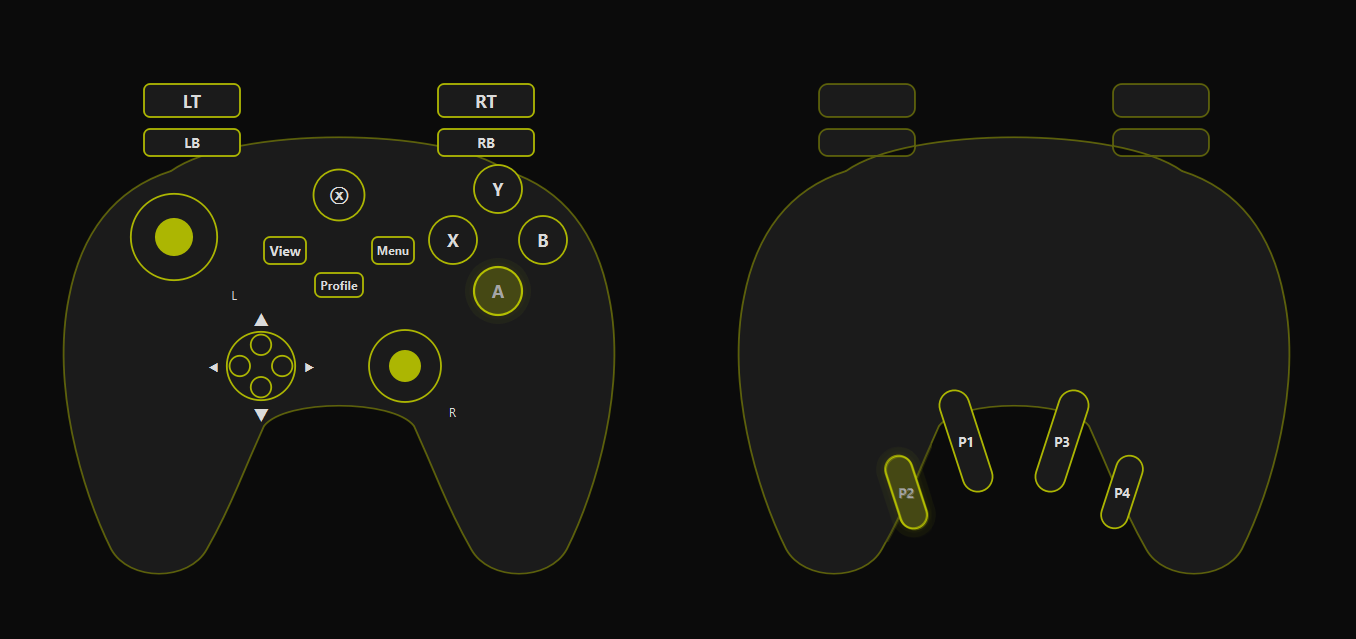
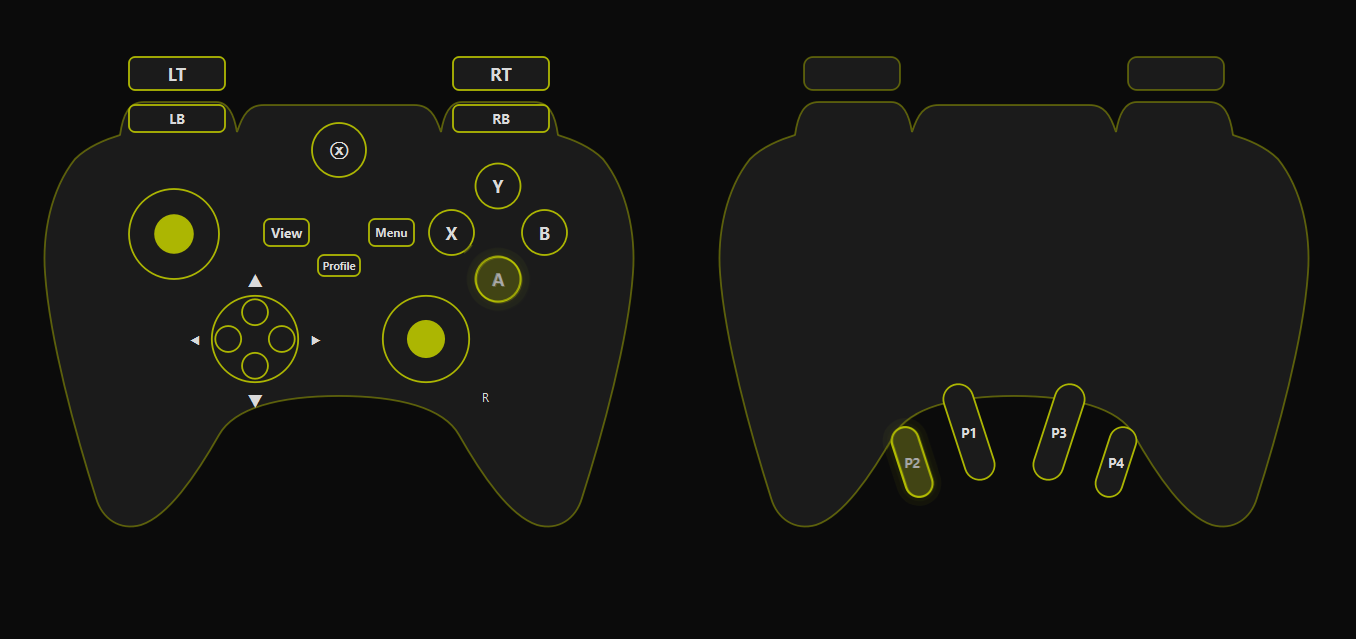
Xbox body line from the Series reference: bumper humps, angled grips

diff --git a/design/XboxLayouts.dc.html b/design/XboxLayouts.dc.html
@@ -14,7 +14,7 @@
 
   </style>
 </helmet>
-<div style="width: 1382px; height: 464px; background: #0c0c0e; position: relative; overflow: hidden;"><svg width="1382" height="464" viewBox="0 0 1382 464" xmlns="http://www.w3.org/2000/svg" style="display: block;"><path d="M 120.0 140.0 C 162.0 110.0 302.0 110.0 344.0 140.0 C 382.0 152.0 404.0 182.0 412.0 224.0 C 424.0 282.0 404.0 352.0 384.0 392.0 C 372.0 414.0 332.0 414.0 320.0 392.0 C 304.0 364.0 294.0 336.0 282.0 310.0 C 268.0 292.0 196.0 292.0 182.0 310.0 C 170.0 336.0 160.0 364.0 144.0 392.0 C 132.0 414.0 92.0 414.0 80.0 392.0 C 60.0 352.0 40.0 282.0 52.0 224.0 C 60.0 182.0 82.0 152.0 120.0 140.0 Z" fill="#1e1e1e" stroke="#c9d400" stroke-opacity="0.47" stroke-width="1.2"></path><circle cx="122.0" cy="184.0" r="28.8" fill="#1e1e1e" stroke="#c9d400" stroke-width="1.2"></circle><circle cx="122.0" cy="184.0" r="12.1" fill="#c9d400"></circle><circle cx="180.0" cy="270.0" r="22.8" fill="#1e1e1e" stroke="#c9d400" stroke-width="1.2"></circle><circle cx="180.0" cy="255.9" r="6.8" fill="#1e1e1e" stroke="#c9d400" stroke-width="1.2"></circle><circle cx="180.0" cy="284.1" r="6.8" fill="#1e1e1e" stroke="#c9d400" stroke-width="1.2"></circle><circle cx="165.9" cy="270.0" r="6.8" fill="#1e1e1e" stroke="#c9d400" stroke-width="1.2"></circle><circle cx="194.1" cy="270.0" r="6.8" fill="#1e1e1e" stroke="#c9d400" stroke-width="1.2"></circle><circle cx="276.0" cy="270.0" r="24.0" fill="#1e1e1e" stroke="#c9d400" stroke-width="1.2"></circle><circle cx="276.0" cy="270.0" r="10.1" fill="#c9d400"></circle><path d="M 102.0 86.0 C 102.0 83.8 103.8 82.0 106.0 82.0 L 162.0 82.0 C 164.2 82.0 166.0 83.8 166.0 86.0 L 166.0 100.0 C 166.0 102.2 164.2 104.0 162.0 104.0 L 106.0 104.0 C 103.8 104.0 102.0 102.2 102.0 100.0 L 102.0 86.0 Z" fill="#1e1e1e" stroke="#c9d400" stroke-width="1.2"></path><text x="134.0" y="97.2" text-anchor="middle" font-family="'Segoe UI', system-ui, -apple-system, sans-serif" font-size="12.0" font-weight="700" fill="#ffffff">LT</text><path d="M 298.0 86.0 C 298.0 83.8 299.8 82.0 302.0 82.0 L 358.0 82.0 C 360.2 82.0 362.0 83.8 362.0 86.0 L 362.0 100.0 C 362.0 102.2 360.2 104.0 358.0 104.0 L 302.0 104.0 C 299.8 104.0 298.0 102.2 298.0 100.0 L 298.0 86.0 Z" fill="#1e1e1e" stroke="#c9d400" stroke-width="1.2"></path><text x="330.0" y="97.2" text-anchor="middle" font-family="'Segoe UI', system-ui, -apple-system, sans-serif" font-size="12.0" font-weight="700" fill="#ffffff">RT</text><path d="M 102.0 116.0 C 102.0 113.8 103.8 112.0 106.0 112.0 L 162.0 112.0 C 164.2 112.0 166.0 113.8 166.0 116.0 L 166.0 126.0 C 166.0 128.2 164.2 130.0 162.0 130.0 L 106.0 130.0 C 103.8 130.0 102.0 128.2 102.0 126.0 L 102.0 116.0 Z" fill="#1e1e1e" stroke="#c9d400" stroke-width="1.2"></path><text x="134.0" y="125.2" text-anchor="middle" font-family="'Segoe UI', system-ui, -apple-system, sans-serif" font-size="12.0" font-weight="700" fill="#ffffff">LB</text><path d="M 298.0 116.0 C 298.0 113.8 299.8 112.0 302.0 112.0 L 358.0 112.0 C 360.2 112.0 362.0 113.8 362.0 116.0 L 362.0 126.0 C 362.0 128.2 360.2 130.0 358.0 130.0 L 302.0 130.0 C 299.8 130.0 298.0 128.2 298.0 126.0 L 298.0 116.0 Z" fill="#1e1e1e" stroke="#c9d400" stroke-width="1.2"></path><text x="330.0" y="125.2" text-anchor="middle" font-family="'Segoe UI', system-ui, -apple-system, sans-serif" font-size="12.0" font-weight="700" fill="#ffffff">RB</text><path d="M 249.0 156.0 C 249.0 165.4 241.4 173.0 232.0 173.0 C 222.6 173.0 215.0 165.4 215.0 156.0 C 215.0 146.6 222.6 139.0 232.0 139.0 C 241.4 139.0 249.0 146.6 249.0 156.0 Z" fill="#1e1e1e" stroke="#c9d400" stroke-width="1.2"></path><text x="232.0" y="160.2" text-anchor="middle" font-family="'Segoe UI', system-ui, -apple-system, sans-serif" font-size="12.0" font-weight="700" fill="#ffffff">ⓧ</text><path d="M 182.0 188.0 C 182.0 185.8 183.8 184.0 186.0 184.0 L 206.0 184.0 C 208.2 184.0 210.0 185.8 210.0 188.0 L 210.0 198.0 C 210.0 200.2 208.2 202.0 206.0 202.0 L 186.0 202.0 C 183.8 202.0 182.0 200.2 182.0 198.0 L 182.0 188.0 Z" fill="#1e1e1e" stroke="#c9d400" stroke-width="1.2"></path><text x="196.0" y="197.2" text-anchor="middle" font-family="'Segoe UI', system-ui, -apple-system, sans-serif" font-size="12.0" font-weight="700" fill="#ffffff">View</text><path d="M 254.0 188.0 C 254.0 185.8 255.8 184.0 258.0 184.0 L 278.0 184.0 C 280.2 184.0 282.0 185.8 282.0 188.0 L 282.0 198.0 C 282.0 200.2 280.2 202.0 278.0 202.0 L 258.0 202.0 C 255.8 202.0 254.0 200.2 254.0 198.0 L 254.0 188.0 Z" fill="#1e1e1e" stroke="#c9d400" stroke-width="1.2"></path><text x="268.0" y="197.2" text-anchor="middle" font-family="'Segoe UI', system-ui, -apple-system, sans-serif" font-size="12.0" font-weight="700" fill="#ffffff">Menu</text><path d="M 216.0 212.0 C 216.0 209.8 217.8 208.0 220.0 208.0 L 244.0 208.0 C 246.2 208.0 248.0 209.8 248.0 212.0 L 248.0 220.0 C 248.0 222.2 246.2 224.0 244.0 224.0 L 220.0 224.0 C 217.8 224.0 216.0 222.2 216.0 220.0 L 216.0 212.0 Z" fill="#1e1e1e" stroke="#c9d400" stroke-width="1.2"></path><text x="232.0" y="219.4" text-anchor="middle" font-family="'Segoe UI', system-ui, -apple-system, sans-serif" font-size="9.6" font-weight="700" fill="#ffffff">Share</text><path d="M 354.0 152.0 C 354.0 160.8 346.8 168.0 338.0 168.0 C 329.2 168.0 322.0 160.8 322.0 152.0 C 322.0 143.2 329.2 136.0 338.0 136.0 C 346.8 136.0 354.0 143.2 354.0 152.0 Z" fill="#1e1e1e" stroke="#c9d400" stroke-width="1.2"></path><text x="338.0" y="156.2" text-anchor="middle" font-family="'Segoe UI', system-ui, -apple-system, sans-serif" font-size="12.0" font-weight="700" fill="#ffffff">Y</text><path d="M 324.0 186.0 C 324.0 194.8 316.8 202.0 308.0 202.0 C 299.2 202.0 292.0 194.8 292.0 186.0 C 292.0 177.2 299.2 170.0 308.0 170.0 C 316.8 170.0 324.0 177.2 324.0 186.0 Z" fill="#1e1e1e" stroke="#c9d400" stroke-width="1.2"></path><text x="308.0" y="190.2" text-anchor="middle" font-family="'Segoe UI', system-ui, -apple-system, sans-serif" font-size="12.0" font-weight="700" fill="#ffffff">X</text><path d="M 384.0 186.0 C 384.0 194.8 376.8 202.0 368.0 202.0 C 359.2 202.0 352.0 194.8 352.0 186.0 C 352.0 177.2 359.2 170.0 368.0 170.0 C 376.8 170.0 384.0 177.2 384.0 186.0 Z" fill="#1e1e1e" stroke="#c9d400" stroke-width="1.2"></path><text x="368.0" y="190.2" text-anchor="middle" font-family="'Segoe UI', system-ui, -apple-system, sans-serif" font-size="12.0" font-weight="700" fill="#ffffff">B</text><path d="M 354.0 220.0 C 354.0 228.8 346.8 236.0 338.0 236.0 C 329.2 236.0 322.0 228.8 322.0 220.0 C 322.0 211.2 329.2 204.0 338.0 204.0 C 346.8 204.0 354.0 211.2 354.0 220.0 Z" fill="none" stroke="#c9d400" stroke-opacity="0.18" stroke-width="12"></path><path d="M 354.0 220.0 C 354.0 228.8 346.8 236.0 338.0 236.0 C 329.2 236.0 322.0 228.8 322.0 220.0 C 322.0 211.2 329.2 204.0 338.0 204.0 C 346.8 204.0 354.0 211.2 354.0 220.0 Z" fill="none" stroke="#c9d400" stroke-opacity="0.09" stroke-width="6"></path><path d="M 354.0 220.0 C 354.0 228.8 346.8 236.0 338.0 236.0 C 329.2 236.0 322.0 228.8 322.0 220.0 C 322.0 211.2 329.2 204.0 338.0 204.0 C 346.8 204.0 354.0 211.2 354.0 220.0 Z" fill="#c9d400" stroke="#c9d400" stroke-width="2.2"></path><text x="338.0" y="224.2" text-anchor="middle" font-family="'Segoe UI', system-ui, -apple-system, sans-serif" font-size="12.0" font-weight="700" fill="#000000">A</text><text x="233.0" y="31.7" text-anchor="middle" font-family="'Segoe UI', system-ui, -apple-system, sans-serif" font-size="10.7" font-weight="400" fill="#a1a1a6">Xbox Wireless</text><path d="M 586.0 140.0 C 628.0 110.0 768.0 110.0 810.0 140.0 C 848.0 152.0 870.0 182.0 878.0 224.0 C 890.0 282.0 870.0 352.0 850.0 392.0 C 838.0 414.0 798.0 414.0 786.0 392.0 C 770.0 364.0 760.0 336.0 748.0 310.0 C 734.0 292.0 662.0 292.0 648.0 310.0 C 636.0 336.0 626.0 364.0 610.0 392.0 C 598.0 414.0 558.0 414.0 546.0 392.0 C 526.0 352.0 506.0 282.0 518.0 224.0 C 526.0 182.0 548.0 152.0 586.0 140.0 Z" fill="#1e1e1e" stroke="#c9d400" stroke-opacity="0.47" stroke-width="1.2"></path><path d="M 1036.0 140.0 C 1078.0 110.0 1218.0 110.0 1260.0 140.0 C 1298.0 152.0 1320.0 182.0 1328.0 224.0 C 1340.0 282.0 1320.0 352.0 1300.0 392.0 C 1288.0 414.0 1248.0 414.0 1236.0 392.0 C 1220.0 364.0 1210.0 336.0 1198.0 310.0 C 1184.0 292.0 1112.0 292.0 1098.0 310.0 C 1086.0 336.0 1076.0 364.0 1060.0 392.0 C 1048.0 414.0 1008.0 414.0 996.0 392.0 C 976.0 352.0 956.0 282.0 968.0 224.0 C 976.0 182.0 998.0 152.0 1036.0 140.0 Z M 1018.0 88.0 C 1018.0 84.7 1020.7 82.0 1024.0 82.0 L 1076.0 82.0 C 1079.3 82.0 1082.0 84.7 1082.0 88.0 L 1082.0 98.0 C 1082.0 101.3 1079.3 104.0 1076.0 104.0 L 1024.0 104.0 C 1020.7 104.0 1018.0 101.3 1018.0 98.0 L 1018.0 88.0 Z M 1214.0 88.0 C 1214.0 84.7 1216.7 82.0 1220.0 82.0 L 1272.0 82.0 C 1275.3 82.0 1278.0 84.7 1278.0 88.0 L 1278.0 98.0 C 1278.0 101.3 1275.3 104.0 1272.0 104.0 L 1220.0 104.0 C 1216.7 104.0 1214.0 101.3 1214.0 98.0 L 1214.0 88.0 Z M 1018.0 118.0 C 1018.0 114.7 1020.7 112.0 1024.0 112.0 L 1076.0 112.0 C 1079.3 112.0 1082.0 114.7 1082.0 118.0 L 1082.0 124.0 C 1082.0 127.3 1079.3 130.0 1076.0 130.0 L 1024.0 130.0 C 1020.7 130.0 1018.0 127.3 1018.0 124.0 L 1018.0 118.0 Z M 1214.0 118.0 C 1214.0 114.7 1216.7 112.0 1220.0 112.0 L 1272.0 112.0 C 1275.3 112.0 1278.0 114.7 1278.0 118.0 L 1278.0 124.0 C 1278.0 127.3 1275.3 130.0 1272.0 130.0 L 1220.0 130.0 C 1216.7 130.0 1214.0 127.3 1214.0 124.0 L 1214.0 118.0 Z" fill="#1e1e1e" stroke="#c9d400" stroke-opacity="0.47" stroke-width="1.2"></path><circle cx="588.0" cy="184.0" r="28.8" fill="#1e1e1e" stroke="#c9d400" stroke-width="1.2"></circle><circle cx="588.0" cy="184.0" r="12.1" fill="#c9d400"></circle><circle cx="646.0" cy="270.0" r="22.8" fill="#1e1e1e" stroke="#c9d400" stroke-width="1.2"></circle><circle cx="646.0" cy="255.9" r="6.8" fill="#1e1e1e" stroke="#c9d400" stroke-width="1.2"></circle><circle cx="646.0" cy="284.1" r="6.8" fill="#1e1e1e" stroke="#c9d400" stroke-width="1.2"></circle><circle cx="631.9" cy="270.0" r="6.8" fill="#1e1e1e" stroke="#c9d400" stroke-width="1.2"></circle><circle cx="660.1" cy="270.0" r="6.8" fill="#1e1e1e" stroke="#c9d400" stroke-width="1.2"></circle><circle cx="742.0" cy="270.0" r="24.0" fill="#1e1e1e" stroke="#c9d400" stroke-width="1.2"></circle><circle cx="742.0" cy="270.0" r="10.1" fill="#c9d400"></circle><path d="M 568.0 86.0 C 568.0 83.8 569.8 82.0 572.0 82.0 L 628.0 82.0 C 630.2 82.0 632.0 83.8 632.0 86.0 L 632.0 100.0 C 632.0 102.2 630.2 104.0 628.0 104.0 L 572.0 104.0 C 569.8 104.0 568.0 102.2 568.0 100.0 L 568.0 86.0 Z" fill="#1e1e1e" stroke="#c9d400" stroke-width="1.2"></path><text x="600.0" y="97.2" text-anchor="middle" font-family="'Segoe UI', system-ui, -apple-system, sans-serif" font-size="12.0" font-weight="700" fill="#ffffff">LT</text><path d="M 764.0 86.0 C 764.0 83.8 765.8 82.0 768.0 82.0 L 824.0 82.0 C 826.2 82.0 828.0 83.8 828.0 86.0 L 828.0 100.0 C 828.0 102.2 826.2 104.0 824.0 104.0 L 768.0 104.0 C 765.8 104.0 764.0 102.2 764.0 100.0 L 764.0 86.0 Z" fill="#1e1e1e" stroke="#c9d400" stroke-width="1.2"></path><text x="796.0" y="97.2" text-anchor="middle" font-family="'Segoe UI', system-ui, -apple-system, sans-serif" font-size="12.0" font-weight="700" fill="#ffffff">RT</text><path d="M 568.0 116.0 C 568.0 113.8 569.8 112.0 572.0 112.0 L 628.0 112.0 C 630.2 112.0 632.0 113.8 632.0 116.0 L 632.0 126.0 C 632.0 128.2 630.2 130.0 628.0 130.0 L 572.0 130.0 C 569.8 130.0 568.0 128.2 568.0 126.0 L 568.0 116.0 Z" fill="#1e1e1e" stroke="#c9d400" stroke-width="1.2"></path><text x="600.0" y="125.2" text-anchor="middle" font-family="'Segoe UI', system-ui, -apple-system, sans-serif" font-size="12.0" font-weight="700" fill="#ffffff">LB</text><path d="M 764.0 116.0 C 764.0 113.8 765.8 112.0 768.0 112.0 L 824.0 112.0 C 826.2 112.0 828.0 113.8 828.0 116.0 L 828.0 126.0 C 828.0 128.2 826.2 130.0 824.0 130.0 L 768.0 130.0 C 765.8 130.0 764.0 128.2 764.0 126.0 L 764.0 116.0 Z" fill="#1e1e1e" stroke="#c9d400" stroke-width="1.2"></path><text x="796.0" y="125.2" text-anchor="middle" font-family="'Segoe UI', system-ui, -apple-system, sans-serif" font-size="12.0" font-weight="700" fill="#ffffff">RB</text><path d="M 715.0 156.0 C 715.0 165.4 707.4 173.0 698.0 173.0 C 688.6 173.0 681.0 165.4 681.0 156.0 C 681.0 146.6 688.6 139.0 698.0 139.0 C 707.4 139.0 715.0 146.6 715.0 156.0 Z" fill="#1e1e1e" stroke="#c9d400" stroke-width="1.2"></path><text x="698.0" y="160.2" text-anchor="middle" font-family="'Segoe UI', system-ui, -apple-system, sans-serif" font-size="12.0" font-weight="700" fill="#ffffff">ⓧ</text><path d="M 648.0 188.0 C 648.0 185.8 649.8 184.0 652.0 184.0 L 672.0 184.0 C 674.2 184.0 676.0 185.8 676.0 188.0 L 676.0 198.0 C 676.0 200.2 674.2 202.0 672.0 202.0 L 652.0 202.0 C 649.8 202.0 648.0 200.2 648.0 198.0 L 648.0 188.0 Z" fill="#1e1e1e" stroke="#c9d400" stroke-width="1.2"></path><text x="662.0" y="197.2" text-anchor="middle" font-family="'Segoe UI', system-ui, -apple-system, sans-serif" font-size="12.0" font-weight="700" fill="#ffffff">View</text><path d="M 720.0 188.0 C 720.0 185.8 721.8 184.0 724.0 184.0 L 744.0 184.0 C 746.2 184.0 748.0 185.8 748.0 188.0 L 748.0 198.0 C 748.0 200.2 746.2 202.0 744.0 202.0 L 724.0 202.0 C 721.8 202.0 720.0 200.2 720.0 198.0 L 720.0 188.0 Z" fill="#1e1e1e" stroke="#c9d400" stroke-width="1.2"></path><text x="734.0" y="197.2" text-anchor="middle" font-family="'Segoe UI', system-ui, -apple-system, sans-serif" font-size="12.0" font-weight="700" fill="#ffffff">Menu</text><path d="M 682.0 212.0 C 682.0 209.8 683.8 208.0 686.0 208.0 L 710.0 208.0 C 712.2 208.0 714.0 209.8 714.0 212.0 L 714.0 220.0 C 714.0 222.2 712.2 224.0 710.0 224.0 L 686.0 224.0 C 683.8 224.0 682.0 222.2 682.0 220.0 L 682.0 212.0 Z" fill="#1e1e1e" stroke="#c9d400" stroke-width="1.2"></path><text x="698.0" y="219.4" text-anchor="middle" font-family="'Segoe UI', system-ui, -apple-system, sans-serif" font-size="9.6" font-weight="700" fill="#ffffff">Profile</text><path d="M 820.0 152.0 C 820.0 160.8 812.8 168.0 804.0 168.0 C 795.2 168.0 788.0 160.8 788.0 152.0 C 788.0 143.2 795.2 136.0 804.0 136.0 C 812.8 136.0 820.0 143.2 820.0 152.0 Z" fill="#1e1e1e" stroke="#c9d400" stroke-width="1.2"></path><text x="804.0" y="156.2" text-anchor="middle" font-family="'Segoe UI', system-ui, -apple-system, sans-serif" font-size="12.0" font-weight="700" fill="#ffffff">Y</text><path d="M 790.0 186.0 C 790.0 194.8 782.8 202.0 774.0 202.0 C 765.2 202.0 758.0 194.8 758.0 186.0 C 758.0 177.2 765.2 170.0 774.0 170.0 C 782.8 170.0 790.0 177.2 790.0 186.0 Z" fill="#1e1e1e" stroke="#c9d400" stroke-width="1.2"></path><text x="774.0" y="190.2" text-anchor="middle" font-family="'Segoe UI', system-ui, -apple-system, sans-serif" font-size="12.0" font-weight="700" fill="#ffffff">X</text><path d="M 850.0 186.0 C 850.0 194.8 842.8 202.0 834.0 202.0 C 825.2 202.0 818.0 194.8 818.0 186.0 C 818.0 177.2 825.2 170.0 834.0 170.0 C 842.8 170.0 850.0 177.2 850.0 186.0 Z" fill="#1e1e1e" stroke="#c9d400" stroke-width="1.2"></path><text x="834.0" y="190.2" text-anchor="middle" font-family="'Segoe UI', system-ui, -apple-system, sans-serif" font-size="12.0" font-weight="700" fill="#ffffff">B</text><path d="M 820.0 220.0 C 820.0 228.8 812.8 236.0 804.0 236.0 C 795.2 236.0 788.0 228.8 788.0 220.0 C 788.0 211.2 795.2 204.0 804.0 204.0 C 812.8 204.0 820.0 211.2 820.0 220.0 Z" fill="none" stroke="#c9d400" stroke-opacity="0.18" stroke-width="12"></path><path d="M 820.0 220.0 C 820.0 228.8 812.8 236.0 804.0 236.0 C 795.2 236.0 788.0 228.8 788.0 220.0 C 788.0 211.2 795.2 204.0 804.0 204.0 C 812.8 204.0 820.0 211.2 820.0 220.0 Z" fill="none" stroke="#c9d400" stroke-opacity="0.09" stroke-width="6"></path><path d="M 820.0 220.0 C 820.0 228.8 812.8 236.0 804.0 236.0 C 795.2 236.0 788.0 228.8 788.0 220.0 C 788.0 211.2 795.2 204.0 804.0 204.0 C 812.8 204.0 820.0 211.2 820.0 220.0 Z" fill="#c9d400" stroke="#c9d400" stroke-width="2.2"></path><text x="804.0" y="224.2" text-anchor="middle" font-family="'Segoe UI', system-ui, -apple-system, sans-serif" font-size="12.0" font-weight="700" fill="#000000">A</text><path d="M 1098.8 299.3 C 1097.1 294.1 1099.9 288.4 1105.2 286.7 C 1110.4 285.0 1116.1 287.9 1117.8 293.1 L 1133.2 340.7 C 1134.9 345.9 1132.1 351.6 1126.8 353.3 C 1121.6 355.0 1115.9 352.1 1114.2 346.9 L 1098.8 299.3 Z" fill="#1e1e1e" stroke="#c9d400" stroke-width="1.2"></path><text x="1116.0" y="324.2" text-anchor="middle" font-family="'Segoe UI', system-ui, -apple-system, sans-serif" font-size="12.0" font-weight="700" fill="#ffffff">P1</text><path d="M 1062.5 341.6 C 1061.0 336.8 1063.5 331.8 1068.3 330.2 C 1073.0 328.7 1078.1 331.3 1079.6 336.0 L 1089.5 366.4 C 1091.0 371.2 1088.5 376.2 1083.7 377.8 C 1079.0 379.3 1073.9 376.7 1072.4 372.0 L 1062.5 341.6 Z" fill="none" stroke="#c9d400" stroke-opacity="0.18" stroke-width="12"></path><path d="M 1062.5 341.6 C 1061.0 336.8 1063.5 331.8 1068.3 330.2 C 1073.0 328.7 1078.1 331.3 1079.6 336.0 L 1089.5 366.4 C 1091.0 371.2 1088.5 376.2 1083.7 377.8 C 1079.0 379.3 1073.9 376.7 1072.4 372.0 L 1062.5 341.6 Z" fill="none" stroke="#c9d400" stroke-opacity="0.09" stroke-width="6"></path><path d="M 1062.5 341.6 C 1061.0 336.8 1063.5 331.8 1068.3 330.2 C 1073.0 328.7 1078.1 331.3 1079.6 336.0 L 1089.5 366.4 C 1091.0 371.2 1088.5 376.2 1083.7 377.8 C 1079.0 379.3 1073.9 376.7 1072.4 372.0 L 1062.5 341.6 Z" fill="#c9d400" stroke="#c9d400" stroke-width="2.2"></path><text x="1076.0" y="358.2" text-anchor="middle" font-family="'Segoe UI', system-ui, -apple-system, sans-serif" font-size="12.0" font-weight="700" fill="#000000">P2</text><path d="M 1178.2 293.1 C 1179.9 287.9 1185.6 285.0 1190.8 286.7 C 1196.1 288.4 1198.9 294.1 1197.2 299.3 L 1181.8 346.9 C 1180.1 352.1 1174.4 355.0 1169.2 353.3 C 1163.9 351.6 1161.1 345.9 1162.8 340.7 L 1178.2 293.1 Z" fill="#1e1e1e" stroke="#c9d400" stroke-width="1.2"></path><text x="1180.0" y="324.2" text-anchor="middle" font-family="'Segoe UI', system-ui, -apple-system, sans-serif" font-size="12.0" font-weight="700" fill="#ffffff">P3</text><path d="M 1216.4 336.0 C 1217.9 331.3 1223.0 328.7 1227.7 330.2 C 1232.5 331.8 1235.0 336.8 1233.5 341.6 L 1223.6 372.0 C 1222.1 376.7 1217.0 379.3 1212.3 377.8 C 1207.5 376.2 1205.0 371.2 1206.5 366.4 L 1216.4 336.0 Z" fill="#1e1e1e" stroke="#c9d400" stroke-width="1.2"></path><text x="1220.0" y="358.2" text-anchor="middle" font-family="'Segoe UI', system-ui, -apple-system, sans-serif" font-size="12.0" font-weight="700" fill="#ffffff">P4</text><text x="924.0" y="31.7" text-anchor="middle" font-family="'Segoe UI', system-ui, -apple-system, sans-serif" font-size="10.7" font-weight="400" fill="#a1a1a6">Xbox Elite Series 2</text></svg></div>
+<div style="width: 1382px; height: 464px; background: #0c0c0e; position: relative; overflow: hidden;"><svg width="1382" height="464" viewBox="0 0 1382 464" xmlns="http://www.w3.org/2000/svg" style="display: block;"><path d="M 56.0 132.0 C 64.0 124.0 76.0 119.0 86.0 116.0 C 88.0 102.0 92.0 94.0 102.0 94.0 L 150.0 94.0 C 158.0 94.0 162.0 102.0 164.0 114.0 C 168.0 102.0 172.0 96.0 182.0 96.0 L 282.0 96.0 C 292.0 96.0 296.0 102.0 300.0 114.0 C 302.0 102.0 306.0 94.0 314.0 94.0 L 362.0 94.0 C 372.0 94.0 376.0 102.0 378.0 116.0 C 388.0 119.0 400.0 124.0 408.0 132.0 C 424.0 152.0 430.0 182.0 428.0 208.0 C 425.0 252.0 408.0 314.0 394.0 358.0 C 390.0 372.0 378.0 380.0 364.0 376.0 C 346.0 370.0 328.0 344.0 312.0 316.0 C 302.0 298.0 272.0 290.0 232.0 290.0 C 192.0 290.0 162.0 298.0 152.0 316.0 C 136.0 344.0 118.0 370.0 100.0 376.0 C 86.0 380.0 74.0 372.0 70.0 358.0 C 56.0 314.0 39.0 252.0 36.0 208.0 C 34.0 182.0 40.0 152.0 56.0 132.0 Z" fill="#1e1e1e" stroke="#c9d400" stroke-opacity="0.47" stroke-width="1.2"></path><circle cx="122.0" cy="182.0" r="30.0" fill="#1e1e1e" stroke="#c9d400" stroke-width="1.2"></circle><circle cx="122.0" cy="182.0" r="12.6" fill="#c9d400"></circle><circle cx="176.0" cy="252.0" r="28.8" fill="#1e1e1e" stroke="#c9d400" stroke-width="1.2"></circle><circle cx="176.0" cy="234.1" r="8.6" fill="#1e1e1e" stroke="#c9d400" stroke-width="1.2"></circle><circle cx="176.0" cy="269.9" r="8.6" fill="#1e1e1e" stroke="#c9d400" stroke-width="1.2"></circle><circle cx="158.1" cy="252.0" r="8.6" fill="#1e1e1e" stroke="#c9d400" stroke-width="1.2"></circle><circle cx="193.9" cy="252.0" r="8.6" fill="#1e1e1e" stroke="#c9d400" stroke-width="1.2"></circle><circle cx="290.0" cy="252.0" r="28.8" fill="#1e1e1e" stroke="#c9d400" stroke-width="1.2"></circle><circle cx="290.0" cy="252.0" r="12.1" fill="#c9d400"></circle><path d="M 92.0 68.0 C 92.0 65.8 93.8 64.0 96.0 64.0 L 152.0 64.0 C 154.2 64.0 156.0 65.8 156.0 68.0 L 156.0 82.0 C 156.0 84.2 154.2 86.0 152.0 86.0 L 96.0 86.0 C 93.8 86.0 92.0 84.2 92.0 82.0 L 92.0 68.0 Z" fill="#1e1e1e" stroke="#c9d400" stroke-width="1.2"></path><text x="124.0" y="79.2" text-anchor="middle" font-family="'Segoe UI', system-ui, -apple-system, sans-serif" font-size="12.0" font-weight="700" fill="#ffffff">LT</text><path d="M 308.0 68.0 C 308.0 65.8 309.8 64.0 312.0 64.0 L 368.0 64.0 C 370.2 64.0 372.0 65.8 372.0 68.0 L 372.0 82.0 C 372.0 84.2 370.2 86.0 368.0 86.0 L 312.0 86.0 C 309.8 86.0 308.0 84.2 308.0 82.0 L 308.0 68.0 Z" fill="#1e1e1e" stroke="#c9d400" stroke-width="1.2"></path><text x="340.0" y="79.2" text-anchor="middle" font-family="'Segoe UI', system-ui, -apple-system, sans-serif" font-size="12.0" font-weight="700" fill="#ffffff">RT</text><path d="M 92.0 100.0 C 92.0 97.8 93.8 96.0 96.0 96.0 L 152.0 96.0 C 154.2 96.0 156.0 97.8 156.0 100.0 L 156.0 110.0 C 156.0 112.2 154.2 114.0 152.0 114.0 L 96.0 114.0 C 93.8 114.0 92.0 112.2 92.0 110.0 L 92.0 100.0 Z" fill="#1e1e1e" stroke="#c9d400" stroke-width="1.2"></path><text x="124.0" y="109.2" text-anchor="middle" font-family="'Segoe UI', system-ui, -apple-system, sans-serif" font-size="12.0" font-weight="700" fill="#ffffff">LB</text><path d="M 308.0 100.0 C 308.0 97.8 309.8 96.0 312.0 96.0 L 368.0 96.0 C 370.2 96.0 372.0 97.8 372.0 100.0 L 372.0 110.0 C 372.0 112.2 370.2 114.0 368.0 114.0 L 312.0 114.0 C 309.8 114.0 308.0 112.2 308.0 110.0 L 308.0 100.0 Z" fill="#1e1e1e" stroke="#c9d400" stroke-width="1.2"></path><text x="340.0" y="109.2" text-anchor="middle" font-family="'Segoe UI', system-ui, -apple-system, sans-serif" font-size="12.0" font-weight="700" fill="#ffffff">RB</text><path d="M 250.0 126.0 C 250.0 135.9 241.9 144.0 232.0 144.0 C 222.1 144.0 214.0 135.9 214.0 126.0 C 214.0 116.1 222.1 108.0 232.0 108.0 C 241.9 108.0 250.0 116.1 250.0 126.0 Z" fill="#1e1e1e" stroke="#c9d400" stroke-width="1.2"></path><text x="232.0" y="130.2" text-anchor="middle" font-family="'Segoe UI', system-ui, -apple-system, sans-serif" font-size="12.0" font-weight="700" fill="#ffffff">ⓧ</text><path d="M 182.0 176.0 C 182.0 173.8 183.8 172.0 186.0 172.0 L 208.0 172.0 C 210.2 172.0 212.0 173.8 212.0 176.0 L 212.0 186.0 C 212.0 188.2 210.2 190.0 208.0 190.0 L 186.0 190.0 C 183.8 190.0 182.0 188.2 182.0 186.0 L 182.0 176.0 Z" fill="#1e1e1e" stroke="#c9d400" stroke-width="1.2"></path><text x="197.0" y="185.2" text-anchor="middle" font-family="'Segoe UI', system-ui, -apple-system, sans-serif" font-size="12.0" font-weight="700" fill="#ffffff">View</text><path d="M 252.0 176.0 C 252.0 173.8 253.8 172.0 256.0 172.0 L 278.0 172.0 C 280.2 172.0 282.0 173.8 282.0 176.0 L 282.0 186.0 C 282.0 188.2 280.2 190.0 278.0 190.0 L 256.0 190.0 C 253.8 190.0 252.0 188.2 252.0 186.0 L 252.0 176.0 Z" fill="#1e1e1e" stroke="#c9d400" stroke-width="1.2"></path><text x="267.0" y="185.2" text-anchor="middle" font-family="'Segoe UI', system-ui, -apple-system, sans-serif" font-size="12.0" font-weight="700" fill="#ffffff">Menu</text><path d="M 218.0 200.0 C 218.0 197.8 219.8 196.0 222.0 196.0 L 242.0 196.0 C 244.2 196.0 246.0 197.8 246.0 200.0 L 246.0 206.0 C 246.0 208.2 244.2 210.0 242.0 210.0 L 222.0 210.0 C 219.8 210.0 218.0 208.2 218.0 206.0 L 218.0 200.0 Z" fill="#1e1e1e" stroke="#c9d400" stroke-width="1.2"></path><text x="232.0" y="206.4" text-anchor="middle" font-family="'Segoe UI', system-ui, -apple-system, sans-serif" font-size="9.6" font-weight="700" fill="#ffffff">Share</text><path d="M 353.0 150.0 C 353.0 158.3 346.3 165.0 338.0 165.0 C 329.7 165.0 323.0 158.3 323.0 150.0 C 323.0 141.7 329.7 135.0 338.0 135.0 C 346.3 135.0 353.0 141.7 353.0 150.0 Z" fill="#1e1e1e" stroke="#c9d400" stroke-width="1.2"></path><text x="338.0" y="154.2" text-anchor="middle" font-family="'Segoe UI', system-ui, -apple-system, sans-serif" font-size="12.0" font-weight="700" fill="#ffffff">Y</text><path d="M 322.0 181.0 C 322.0 189.3 315.3 196.0 307.0 196.0 C 298.7 196.0 292.0 189.3 292.0 181.0 C 292.0 172.7 298.7 166.0 307.0 166.0 C 315.3 166.0 322.0 172.7 322.0 181.0 Z" fill="#1e1e1e" stroke="#c9d400" stroke-width="1.2"></path><text x="307.0" y="185.2" text-anchor="middle" font-family="'Segoe UI', system-ui, -apple-system, sans-serif" font-size="12.0" font-weight="700" fill="#ffffff">X</text><path d="M 384.0 181.0 C 384.0 189.3 377.3 196.0 369.0 196.0 C 360.7 196.0 354.0 189.3 354.0 181.0 C 354.0 172.7 360.7 166.0 369.0 166.0 C 377.3 166.0 384.0 172.7 384.0 181.0 Z" fill="#1e1e1e" stroke="#c9d400" stroke-width="1.2"></path><text x="369.0" y="185.2" text-anchor="middle" font-family="'Segoe UI', system-ui, -apple-system, sans-serif" font-size="12.0" font-weight="700" fill="#ffffff">B</text><path d="M 353.0 212.0 C 353.0 220.3 346.3 227.0 338.0 227.0 C 329.7 227.0 323.0 220.3 323.0 212.0 C 323.0 203.7 329.7 197.0 338.0 197.0 C 346.3 197.0 353.0 203.7 353.0 212.0 Z" fill="none" stroke="#c9d400" stroke-opacity="0.18" stroke-width="12"></path><path d="M 353.0 212.0 C 353.0 220.3 346.3 227.0 338.0 227.0 C 329.7 227.0 323.0 220.3 323.0 212.0 C 323.0 203.7 329.7 197.0 338.0 197.0 C 346.3 197.0 353.0 203.7 353.0 212.0 Z" fill="none" stroke="#c9d400" stroke-opacity="0.09" stroke-width="6"></path><path d="M 353.0 212.0 C 353.0 220.3 346.3 227.0 338.0 227.0 C 329.7 227.0 323.0 220.3 323.0 212.0 C 323.0 203.7 329.7 197.0 338.0 197.0 C 346.3 197.0 353.0 203.7 353.0 212.0 Z" fill="#c9d400" stroke="#c9d400" stroke-width="2.2"></path><text x="338.0" y="216.2" text-anchor="middle" font-family="'Segoe UI', system-ui, -apple-system, sans-serif" font-size="12.0" font-weight="700" fill="#000000">A</text><text x="233.0" y="31.7" text-anchor="middle" font-family="'Segoe UI', system-ui, -apple-system, sans-serif" font-size="10.7" font-weight="400" fill="#a1a1a6">Xbox Wireless</text><path d="M 522.0 132.0 C 530.0 124.0 542.0 119.0 552.0 116.0 C 554.0 102.0 558.0 94.0 568.0 94.0 L 616.0 94.0 C 624.0 94.0 628.0 102.0 630.0 114.0 C 634.0 102.0 638.0 96.0 648.0 96.0 L 748.0 96.0 C 758.0 96.0 762.0 102.0 766.0 114.0 C 768.0 102.0 772.0 94.0 780.0 94.0 L 828.0 94.0 C 838.0 94.0 842.0 102.0 844.0 116.0 C 854.0 119.0 866.0 124.0 874.0 132.0 C 890.0 152.0 896.0 182.0 894.0 208.0 C 891.0 252.0 874.0 314.0 860.0 358.0 C 856.0 372.0 844.0 380.0 830.0 376.0 C 812.0 370.0 794.0 344.0 778.0 316.0 C 768.0 298.0 738.0 290.0 698.0 290.0 C 658.0 290.0 628.0 298.0 618.0 316.0 C 602.0 344.0 584.0 370.0 566.0 376.0 C 552.0 380.0 540.0 372.0 536.0 358.0 C 522.0 314.0 505.0 252.0 502.0 208.0 C 500.0 182.0 506.0 152.0 522.0 132.0 Z" fill="#1e1e1e" stroke="#c9d400" stroke-opacity="0.47" stroke-width="1.2"></path><path d="M 972.0 132.0 C 980.0 124.0 992.0 119.0 1002.0 116.0 C 1004.0 102.0 1008.0 94.0 1018.0 94.0 L 1066.0 94.0 C 1074.0 94.0 1078.0 102.0 1080.0 114.0 C 1084.0 102.0 1088.0 96.0 1098.0 96.0 L 1198.0 96.0 C 1208.0 96.0 1212.0 102.0 1216.0 114.0 C 1218.0 102.0 1222.0 94.0 1230.0 94.0 L 1278.0 94.0 C 1288.0 94.0 1292.0 102.0 1294.0 116.0 C 1304.0 119.0 1316.0 124.0 1324.0 132.0 C 1340.0 152.0 1346.0 182.0 1344.0 208.0 C 1341.0 252.0 1324.0 314.0 1310.0 358.0 C 1306.0 372.0 1294.0 380.0 1280.0 376.0 C 1262.0 370.0 1244.0 344.0 1228.0 316.0 C 1218.0 298.0 1188.0 290.0 1148.0 290.0 C 1108.0 290.0 1078.0 298.0 1068.0 316.0 C 1052.0 344.0 1034.0 370.0 1016.0 376.0 C 1002.0 380.0 990.0 372.0 986.0 358.0 C 972.0 314.0 955.0 252.0 952.0 208.0 C 950.0 182.0 956.0 152.0 972.0 132.0 Z M 1008.0 70.0 C 1008.0 66.7 1010.7 64.0 1014.0 64.0 L 1066.0 64.0 C 1069.3 64.0 1072.0 66.7 1072.0 70.0 L 1072.0 80.0 C 1072.0 83.3 1069.3 86.0 1066.0 86.0 L 1014.0 86.0 C 1010.7 86.0 1008.0 83.3 1008.0 80.0 L 1008.0 70.0 Z M 1224.0 70.0 C 1224.0 66.7 1226.7 64.0 1230.0 64.0 L 1282.0 64.0 C 1285.3 64.0 1288.0 66.7 1288.0 70.0 L 1288.0 80.0 C 1288.0 83.3 1285.3 86.0 1282.0 86.0 L 1230.0 86.0 C 1226.7 86.0 1224.0 83.3 1224.0 80.0 L 1224.0 70.0 Z" fill="#1e1e1e" stroke="#c9d400" stroke-opacity="0.47" stroke-width="1.2"></path><circle cx="588.0" cy="182.0" r="30.0" fill="#1e1e1e" stroke="#c9d400" stroke-width="1.2"></circle><circle cx="588.0" cy="182.0" r="12.6" fill="#c9d400"></circle><circle cx="642.0" cy="252.0" r="28.8" fill="#1e1e1e" stroke="#c9d400" stroke-width="1.2"></circle><circle cx="642.0" cy="234.1" r="8.6" fill="#1e1e1e" stroke="#c9d400" stroke-width="1.2"></circle><circle cx="642.0" cy="269.9" r="8.6" fill="#1e1e1e" stroke="#c9d400" stroke-width="1.2"></circle><circle cx="624.1" cy="252.0" r="8.6" fill="#1e1e1e" stroke="#c9d400" stroke-width="1.2"></circle><circle cx="659.9" cy="252.0" r="8.6" fill="#1e1e1e" stroke="#c9d400" stroke-width="1.2"></circle><circle cx="756.0" cy="252.0" r="28.8" fill="#1e1e1e" stroke="#c9d400" stroke-width="1.2"></circle><circle cx="756.0" cy="252.0" r="12.1" fill="#c9d400"></circle><path d="M 558.0 68.0 C 558.0 65.8 559.8 64.0 562.0 64.0 L 618.0 64.0 C 620.2 64.0 622.0 65.8 622.0 68.0 L 622.0 82.0 C 622.0 84.2 620.2 86.0 618.0 86.0 L 562.0 86.0 C 559.8 86.0 558.0 84.2 558.0 82.0 L 558.0 68.0 Z" fill="#1e1e1e" stroke="#c9d400" stroke-width="1.2"></path><text x="590.0" y="79.2" text-anchor="middle" font-family="'Segoe UI', system-ui, -apple-system, sans-serif" font-size="12.0" font-weight="700" fill="#ffffff">LT</text><path d="M 774.0 68.0 C 774.0 65.8 775.8 64.0 778.0 64.0 L 834.0 64.0 C 836.2 64.0 838.0 65.8 838.0 68.0 L 838.0 82.0 C 838.0 84.2 836.2 86.0 834.0 86.0 L 778.0 86.0 C 775.8 86.0 774.0 84.2 774.0 82.0 L 774.0 68.0 Z" fill="#1e1e1e" stroke="#c9d400" stroke-width="1.2"></path><text x="806.0" y="79.2" text-anchor="middle" font-family="'Segoe UI', system-ui, -apple-system, sans-serif" font-size="12.0" font-weight="700" fill="#ffffff">RT</text><path d="M 558.0 100.0 C 558.0 97.8 559.8 96.0 562.0 96.0 L 618.0 96.0 C 620.2 96.0 622.0 97.8 622.0 100.0 L 622.0 110.0 C 622.0 112.2 620.2 114.0 618.0 114.0 L 562.0 114.0 C 559.8 114.0 558.0 112.2 558.0 110.0 L 558.0 100.0 Z" fill="#1e1e1e" stroke="#c9d400" stroke-width="1.2"></path><text x="590.0" y="109.2" text-anchor="middle" font-family="'Segoe UI', system-ui, -apple-system, sans-serif" font-size="12.0" font-weight="700" fill="#ffffff">LB</text><path d="M 774.0 100.0 C 774.0 97.8 775.8 96.0 778.0 96.0 L 834.0 96.0 C 836.2 96.0 838.0 97.8 838.0 100.0 L 838.0 110.0 C 838.0 112.2 836.2 114.0 834.0 114.0 L 778.0 114.0 C 775.8 114.0 774.0 112.2 774.0 110.0 L 774.0 100.0 Z" fill="#1e1e1e" stroke="#c9d400" stroke-width="1.2"></path><text x="806.0" y="109.2" text-anchor="middle" font-family="'Segoe UI', system-ui, -apple-system, sans-serif" font-size="12.0" font-weight="700" fill="#ffffff">RB</text><path d="M 716.0 126.0 C 716.0 135.9 707.9 144.0 698.0 144.0 C 688.1 144.0 680.0 135.9 680.0 126.0 C 680.0 116.1 688.1 108.0 698.0 108.0 C 707.9 108.0 716.0 116.1 716.0 126.0 Z" fill="#1e1e1e" stroke="#c9d400" stroke-width="1.2"></path><text x="698.0" y="130.2" text-anchor="middle" font-family="'Segoe UI', system-ui, -apple-system, sans-serif" font-size="12.0" font-weight="700" fill="#ffffff">ⓧ</text><path d="M 648.0 176.0 C 648.0 173.8 649.8 172.0 652.0 172.0 L 674.0 172.0 C 676.2 172.0 678.0 173.8 678.0 176.0 L 678.0 186.0 C 678.0 188.2 676.2 190.0 674.0 190.0 L 652.0 190.0 C 649.8 190.0 648.0 188.2 648.0 186.0 L 648.0 176.0 Z" fill="#1e1e1e" stroke="#c9d400" stroke-width="1.2"></path><text x="663.0" y="185.2" text-anchor="middle" font-family="'Segoe UI', system-ui, -apple-system, sans-serif" font-size="12.0" font-weight="700" fill="#ffffff">View</text><path d="M 718.0 176.0 C 718.0 173.8 719.8 172.0 722.0 172.0 L 744.0 172.0 C 746.2 172.0 748.0 173.8 748.0 176.0 L 748.0 186.0 C 748.0 188.2 746.2 190.0 744.0 190.0 L 722.0 190.0 C 719.8 190.0 718.0 188.2 718.0 186.0 L 718.0 176.0 Z" fill="#1e1e1e" stroke="#c9d400" stroke-width="1.2"></path><text x="733.0" y="185.2" text-anchor="middle" font-family="'Segoe UI', system-ui, -apple-system, sans-serif" font-size="12.0" font-weight="700" fill="#ffffff">Menu</text><path d="M 684.0 200.0 C 684.0 197.8 685.8 196.0 688.0 196.0 L 708.0 196.0 C 710.2 196.0 712.0 197.8 712.0 200.0 L 712.0 206.0 C 712.0 208.2 710.2 210.0 708.0 210.0 L 688.0 210.0 C 685.8 210.0 684.0 208.2 684.0 206.0 L 684.0 200.0 Z" fill="#1e1e1e" stroke="#c9d400" stroke-width="1.2"></path><text x="698.0" y="206.4" text-anchor="middle" font-family="'Segoe UI', system-ui, -apple-system, sans-serif" font-size="9.6" font-weight="700" fill="#ffffff">Profile</text><path d="M 819.0 150.0 C 819.0 158.3 812.3 165.0 804.0 165.0 C 795.7 165.0 789.0 158.3 789.0 150.0 C 789.0 141.7 795.7 135.0 804.0 135.0 C 812.3 135.0 819.0 141.7 819.0 150.0 Z" fill="#1e1e1e" stroke="#c9d400" stroke-width="1.2"></path><text x="804.0" y="154.2" text-anchor="middle" font-family="'Segoe UI', system-ui, -apple-system, sans-serif" font-size="12.0" font-weight="700" fill="#ffffff">Y</text><path d="M 788.0 181.0 C 788.0 189.3 781.3 196.0 773.0 196.0 C 764.7 196.0 758.0 189.3 758.0 181.0 C 758.0 172.7 764.7 166.0 773.0 166.0 C 781.3 166.0 788.0 172.7 788.0 181.0 Z" fill="#1e1e1e" stroke="#c9d400" stroke-width="1.2"></path><text x="773.0" y="185.2" text-anchor="middle" font-family="'Segoe UI', system-ui, -apple-system, sans-serif" font-size="12.0" font-weight="700" fill="#ffffff">X</text><path d="M 850.0 181.0 C 850.0 189.3 843.3 196.0 835.0 196.0 C 826.7 196.0 820.0 189.3 820.0 181.0 C 820.0 172.7 826.7 166.0 835.0 166.0 C 843.3 166.0 850.0 172.7 850.0 181.0 Z" fill="#1e1e1e" stroke="#c9d400" stroke-width="1.2"></path><text x="835.0" y="185.2" text-anchor="middle" font-family="'Segoe UI', system-ui, -apple-system, sans-serif" font-size="12.0" font-weight="700" fill="#ffffff">B</text><path d="M 819.0 212.0 C 819.0 220.3 812.3 227.0 804.0 227.0 C 795.7 227.0 789.0 220.3 789.0 212.0 C 789.0 203.7 795.7 197.0 804.0 197.0 C 812.3 197.0 819.0 203.7 819.0 212.0 Z" fill="none" stroke="#c9d400" stroke-opacity="0.18" stroke-width="12"></path><path d="M 819.0 212.0 C 819.0 220.3 812.3 227.0 804.0 227.0 C 795.7 227.0 789.0 220.3 789.0 212.0 C 789.0 203.7 795.7 197.0 804.0 197.0 C 812.3 197.0 819.0 203.7 819.0 212.0 Z" fill="none" stroke="#c9d400" stroke-opacity="0.09" stroke-width="6"></path><path d="M 819.0 212.0 C 819.0 220.3 812.3 227.0 804.0 227.0 C 795.7 227.0 789.0 220.3 789.0 212.0 C 789.0 203.7 795.7 197.0 804.0 197.0 C 812.3 197.0 819.0 203.7 819.0 212.0 Z" fill="#c9d400" stroke="#c9d400" stroke-width="2.2"></path><text x="804.0" y="216.2" text-anchor="middle" font-family="'Segoe UI', system-ui, -apple-system, sans-serif" font-size="12.0" font-weight="700" fill="#000000">A</text><path d="M 1101.4 295.2 C 1099.7 290.0 1102.5 284.3 1107.8 282.6 C 1113.1 280.9 1118.7 283.8 1120.4 289.0 L 1134.6 332.8 C 1136.3 338.0 1133.5 343.7 1128.2 345.4 C 1122.9 347.1 1117.3 344.2 1115.6 339.0 L 1101.4 295.2 Z" fill="#1e1e1e" stroke="#c9d400" stroke-width="1.2"></path><text x="1118.0" y="318.2" text-anchor="middle" font-family="'Segoe UI', system-ui, -apple-system, sans-serif" font-size="12.0" font-weight="700" fill="#ffffff">P1</text><path d="M 1066.8 322.5 C 1065.3 317.8 1067.9 312.7 1072.6 311.2 C 1077.3 309.6 1082.4 312.2 1083.9 317.0 L 1093.2 345.5 C 1094.7 350.2 1092.1 355.3 1087.4 356.8 C 1082.7 358.4 1077.6 355.8 1076.1 351.0 L 1066.8 322.5 Z" fill="none" stroke="#c9d400" stroke-opacity="0.18" stroke-width="12"></path><path d="M 1066.8 322.5 C 1065.3 317.8 1067.9 312.7 1072.6 311.2 C 1077.3 309.6 1082.4 312.2 1083.9 317.0 L 1093.2 345.5 C 1094.7 350.2 1092.1 355.3 1087.4 356.8 C 1082.7 358.4 1077.6 355.8 1076.1 351.0 L 1066.8 322.5 Z" fill="none" stroke="#c9d400" stroke-opacity="0.09" stroke-width="6"></path><path d="M 1066.8 322.5 C 1065.3 317.8 1067.9 312.7 1072.6 311.2 C 1077.3 309.6 1082.4 312.2 1083.9 317.0 L 1093.2 345.5 C 1094.7 350.2 1092.1 355.3 1087.4 356.8 C 1082.7 358.4 1077.6 355.8 1076.1 351.0 L 1066.8 322.5 Z" fill="#c9d400" stroke="#c9d400" stroke-width="2.2"></path><text x="1080.0" y="338.2" text-anchor="middle" font-family="'Segoe UI', system-ui, -apple-system, sans-serif" font-size="12.0" font-weight="700" fill="#000000">P2</text><path d="M 1175.6 289.0 C 1177.3 283.8 1182.9 280.9 1188.2 282.6 C 1193.5 284.3 1196.3 290.0 1194.6 295.2 L 1180.4 339.0 C 1178.7 344.2 1173.1 347.1 1167.8 345.4 C 1162.5 343.7 1159.7 338.0 1161.4 332.8 L 1175.6 289.0 Z" fill="#1e1e1e" stroke="#c9d400" stroke-width="1.2"></path><text x="1178.0" y="318.2" text-anchor="middle" font-family="'Segoe UI', system-ui, -apple-system, sans-serif" font-size="12.0" font-weight="700" fill="#ffffff">P3</text><path d="M 1212.1 317.0 C 1213.6 312.2 1218.7 309.6 1223.4 311.2 C 1228.1 312.7 1230.7 317.8 1229.2 322.5 L 1219.9 351.0 C 1218.4 355.8 1213.3 358.4 1208.6 356.8 C 1203.9 355.3 1201.3 350.2 1202.8 345.5 L 1212.1 317.0 Z" fill="#1e1e1e" stroke="#c9d400" stroke-width="1.2"></path><text x="1216.0" y="338.2" text-anchor="middle" font-family="'Segoe UI', system-ui, -apple-system, sans-serif" font-size="12.0" font-weight="700" fill="#ffffff">P4</text><text x="924.0" y="31.7" text-anchor="middle" font-family="'Segoe UI', system-ui, -apple-system, sans-serif" font-size="10.7" font-weight="400" fill="#a1a1a6">Xbox Elite Series 2</text></svg></div>
 </x-dc>
 </body>
 </html>

diff --git a/templates.py b/templates.py
@@ -452,32 +452,33 @@ def _circle(cx, cy, r, label, inp):
 def xbox_profile(elite=False):
     """Xbox Wireless, or Elite Series 2 with a second body for the four rear paddles."""
     keys = [
-        _u(70, 30, 64, 22, label="LT", axis="gp:lefttrigger", input="gp:lefttrigger"),
-        _u(266, 30, 64, 22, label="RT", axis="gp:righttrigger", input="gp:righttrigger"),
-        _u(70, 60, 64, 18, label="LB", input="gp:leftshoulder"),
-        _u(266, 60, 64, 18, label="RB", input="gp:rightshoulder"),
-        _circle(200, 104, 17, "ⓧ", "gp:guide"),
-        _u(150, 132, 28, 18, label="View", input="gp:back"),
-        _u(222, 132, 28, 18, label="Menu", input="gp:start"),
-        _u(184, 156, 32, 16, label="Profile", input="") if elite
-        else _u(184, 156, 32, 16, label="Share", input="gp:misc1"),
-        _circle(306, 100, 16, "Y", "gp:y"),
-        _circle(276, 134, 16, "X", "gp:x"),
-        _circle(336, 134, 16, "B", "gp:b"),
-        _circle(306, 168, 16, "A", "gp:a"),
+        _u(60, 12, 64, 22, label="LT", axis="gp:lefttrigger", input="gp:lefttrigger"),
+        _u(276, 12, 64, 22, label="RT", axis="gp:righttrigger", input="gp:righttrigger"),
+        _u(60, 44, 64, 18, label="LB", input="gp:leftshoulder"),   # sits on the bumper hump
+        _u(276, 44, 64, 18, label="RB", input="gp:rightshoulder"),
+        _circle(200, 74, 18, "ⓧ", "gp:guide"),
+        _u(150, 120, 30, 18, label="View", input="gp:back"),
+        _u(220, 120, 30, 18, label="Menu", input="gp:start"),
+        _u(186, 144, 28, 14, label="Profile", input="") if elite
+        else _u(186, 144, 28, 14, label="Share", input="gp:misc1"),
+        _circle(306, 98, 15, "Y", "gp:y"),
+        _circle(275, 129, 15, "X", "gp:x"),
+        _circle(337, 129, 15, "B", "gp:b"),
+        _circle(306, 160, 15, "A", "gp:a"),
     ]
-    # Sticks draw their ring at 0.3 of the box, so the boxes are wider than the pads around them.
+    # Sticks draw their ring at 0.3 of the box, so the boxes overlap their neighbours; the rings do not.
     sticks = [
-        _u(42, 84, 96, 96, label="L", axes=["gp:leftx", "gp:lefty"], click="gp:leftstick"),
-        _u(110, 180, 76, 76, label="", up="gp:dpup", down="gp:dpdown", left="gp:dpleft", right="gp:dpright"),
-        _u(204, 178, 80, 80, label="R", axes=["gp:rightx", "gp:righty"], click="gp:rightstick"),
+        _u(40, 80, 100, 100, label="L", axes=["gp:leftx", "gp:lefty"], click="gp:leftstick"),
+        _u(96, 152, 96, 96, label="", up="gp:dpup", down="gp:dpdown", left="gp:dpleft", right="gp:dpright"),
+        _u(210, 152, 96, 96, label="R", axes=["gp:rightx", "gp:righty"], click="gp:rightstick"),
     ]
     decor = [_u(0, 0, 400, 372, kind="xbox_front")]
     if elite:
         bx = XBOX_BACK_COL * XBOX_CELL
         decor.append(_u(bx, 0, 400, 372, kind="xbox_back"))
-        for label, cx, cy, w, h, shape in (("P1", 168, 268, 20, 70, "paddle_l"), ("P2", 128, 302, 18, 50, "paddle_l"),
-                                           ("P3", 232, 268, 20, 70, "paddle_r"), ("P4", 272, 302, 18, 50, "paddle_r")):
+        # Paddles hang from the lower back between the grips, as on the real controller.
+        for label, cx, cy, w, h, shape in (("P1", 170, 262, 20, 66, "paddle_l"), ("P2", 132, 282, 18, 48, "paddle_l"),
+                                           ("P3", 230, 262, 20, 66, "paddle_r"), ("P4", 268, 282, 18, 48, "paddle_r")):
             keys.append(_u(bx + cx - w / 2, cy - h / 2, w, h, label=label, shape=shape,
                            input=f"gp:paddle{label[1]}", editable=True))
     return {

diff --git a/tests/test_xbox_templates.py b/tests/test_xbox_templates.py
@@ -95,7 +95,12 @@ def test_elite_back_body_holds_four_editable_paddles():
 @pytest.mark.parametrize("elite", [False, True])
 def test_xbox_pads_do_not_overlap(elite):
     prof = templates.xbox_profile(elite)
-    rects = [_rect(k) for k in prof["keys"]] + [_rect(s, 2) for s in prof["sticks"]]
+    # A stick draws its ring at 0.3 of its box from the centre; only the ring must stay clear of the pads.
+    rects = [_rect(k) for k in prof["keys"]]
+    for s in prof["sticks"]:
+        box = _rect(s, 2)
+        inset = box.width() * 0.2
+        rects.append(box.adjusted(inset, inset, -inset, -inset))
     for i, a in enumerate(rects):
         for b in rects[i + 1:]:
             assert not a.intersects(b.adjusted(0.01, 0.01, -0.01, -0.01))
